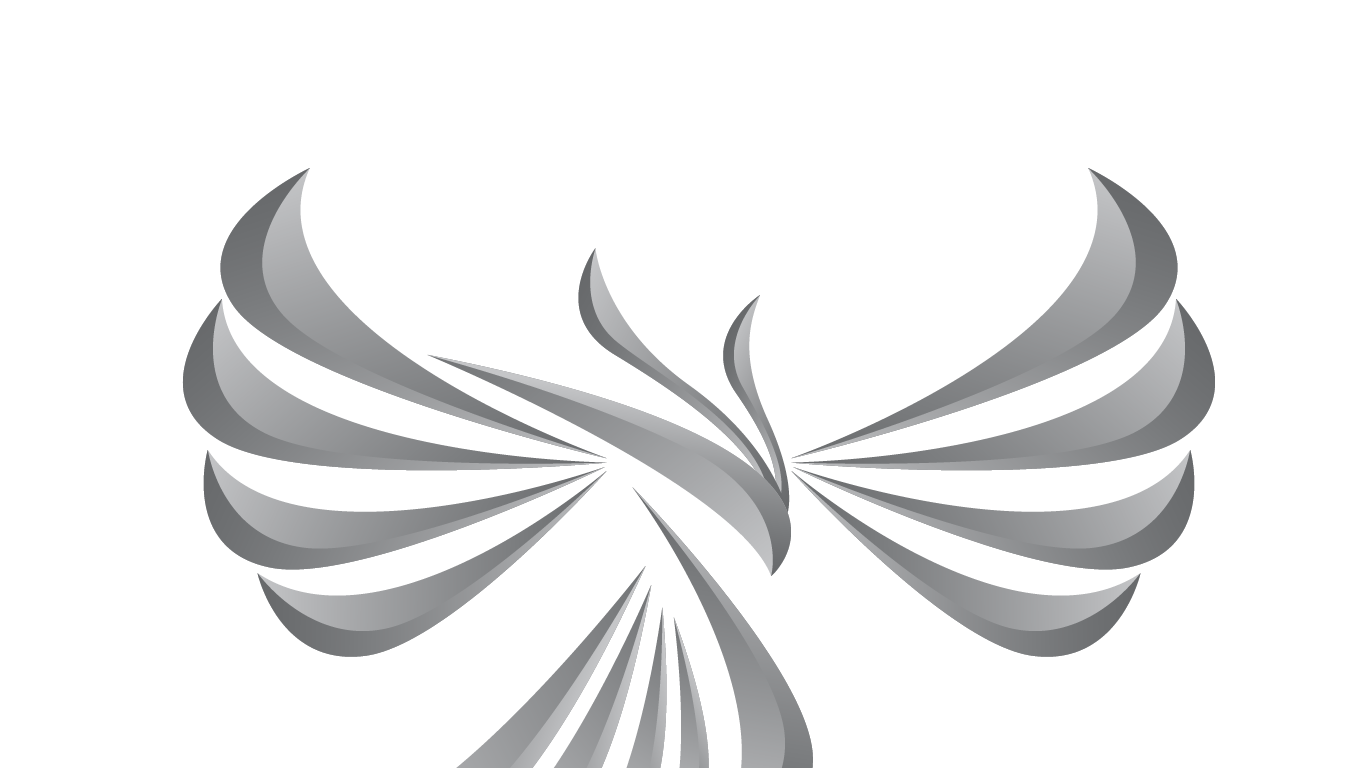
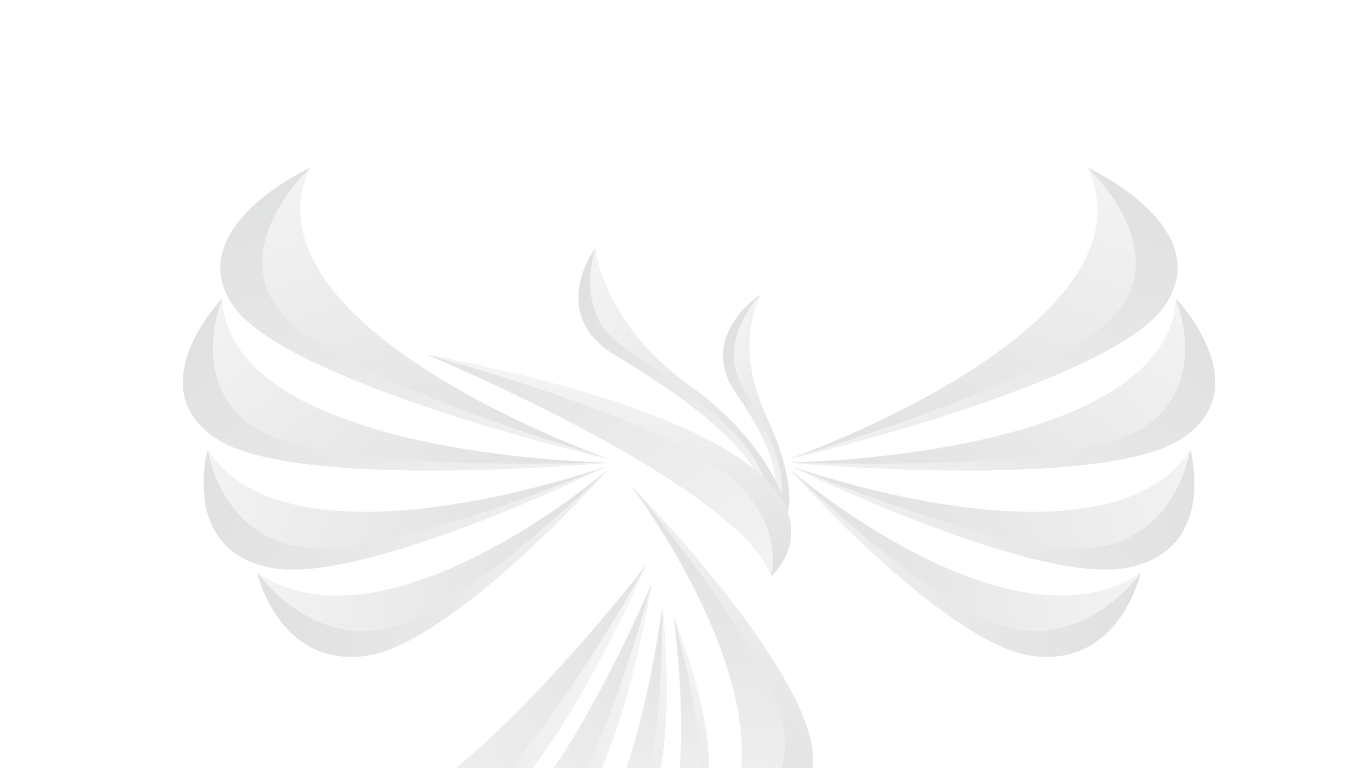
background

Changed region(s): [[0.123, 0.2188, 0.8917, 1.0], [0.3997, 0.3125, 0.4919, 0.5]]

diff --git a/src/assets/styles/about.scss b/src/assets/styles/about.scss
@@ -1,6 +1,9 @@
 .about-container {
   background-color: #dedede;
   font-family: 'Montserrat', sans-serif;
+  background-image: url('https://raw.githubusercontent.com/hunterraffety/portfolio/hunter-raffety/src/assets/img/phoenix.png');
+  background-size: cover;
+  background-position: center;
   .lead {
     line-height: 1.5;
     font-size: 1rem;
